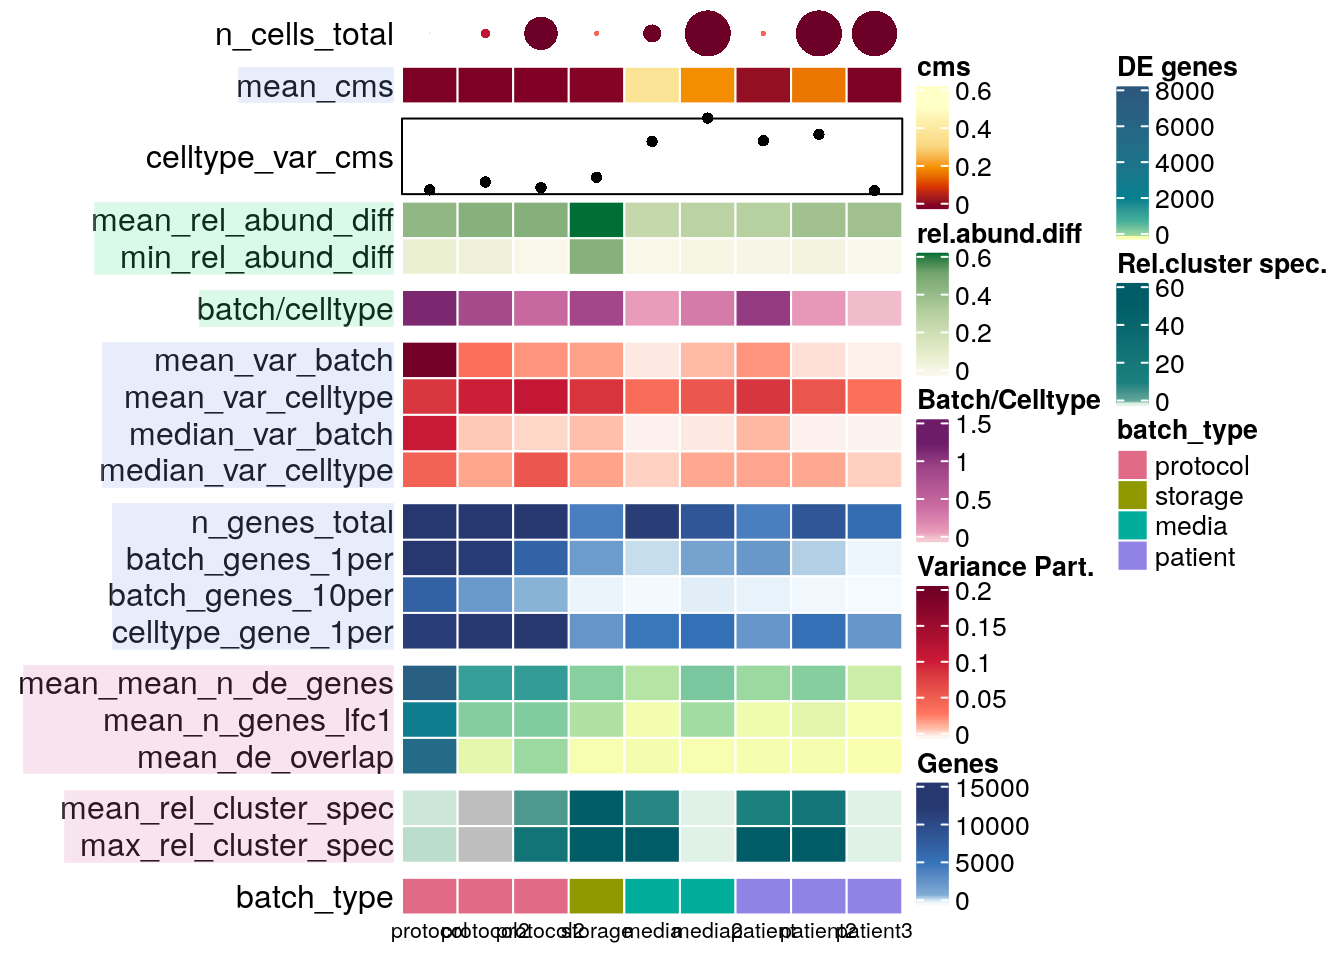
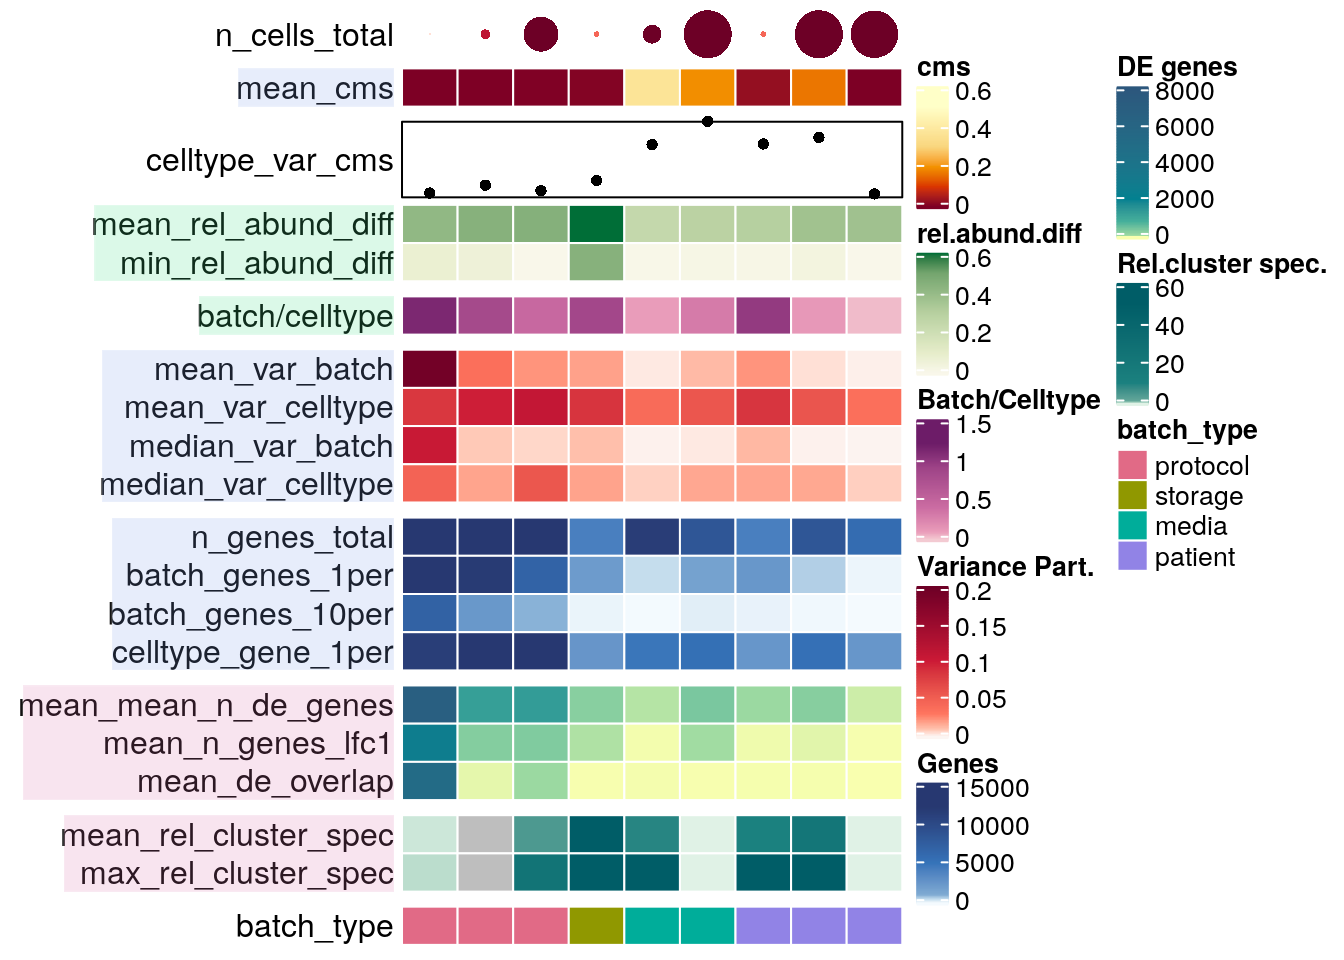
Build site.

Changed region(s): [[0.0, 0.1562, 0.6875, 1.0], [0.1875, 0.0312, 0.6875, 0.1562]]

diff --git a/docs/summarize_batch_characteristics.html b/docs/summarize_batch_characteristics.html
@@ -523,10 +523,10 @@ This reproducible <a href="http://rmarkdown.rstudio.com">R Markdown</a> analysis
 <div class="panel panel-default">
 <div class="panel-heading">
 <p class="panel-title">
-<a data-toggle="collapse" data-parent="#workflowr-checks" href="#strongRepositoryversionstrongahrefhttpsgithubcomalmutluecharacterizebatchestree79b280f7366f93afc58acb01e42b5e45b0d9a5fetargetblank79b280fa"> <span class="glyphicon glyphicon-ok text-success" aria-hidden="true"></span> <strong>Repository version:</strong> <a href="https://github.com/almutlue/characterize_batches/tree/79b280f7366f93afc58acb01e42b5e45b0d9a5fe" target="_blank">79b280f</a> </a>
+<a data-toggle="collapse" data-parent="#workflowr-checks" href="#strongRepositoryversionstrongahrefhttpsgithubcomalmutluecharacterizebatchestree270c72b69b45fdec8aed5f50036913d45c428968targetblank270c72ba"> <span class="glyphicon glyphicon-ok text-success" aria-hidden="true"></span> <strong>Repository version:</strong> <a href="https://github.com/almutlue/characterize_batches/tree/270c72b69b45fdec8aed5f50036913d45c428968" target="_blank">270c72b</a> </a>
 </p>
 </div>
[2 lines of base64/hex data omitted]
 <div class="panel-body">
 <p>
 Great! You are using Git for version control. Tracking code development and connecting the code version to the results is critical for reproducibility. The version displayed above was the version of the Git repository at the time these results were generated. <br><br> Note that you need to be careful to ensure that all relevant files for the analysis have been committed to Git prior to generating the results (you can use <code>wflow_publish</code> or <code>wflow_git_commit</code>). workflowr only checks the R Markdown file, but you know if there are other scripts or data files that it depends on. Below is the status of the Git repository when the results were generated:
@@ -629,6 +629,40 @@ Message
 </tr>
 </thead>
 <tbody>
+<tr>
+<td>
+Rmd
+</td>
+<td>
+<a href="https://github.com/almutlue/characterize_batches/blob/270c72b69b45fdec8aed5f50036913d45c428968/analysis/summarize_batch_characteristics.Rmd" target="_blank">270c72b</a>
+</td>
+<td>
+almutlue
+</td>
+<td>
+2019-06-19
+</td>
+<td>
+wflow_publish(“analysis/summarize_batch_characteristics.Rmd”)
+</td>
+</tr>
+<tr>
+<td>
+html
+</td>
+<td>
+<a href="https://rawcdn.githack.com/almutlue/characterize_batches/e478dc786047707f426c6e20cccd34b80d7ee24f/docs/summarize_batch_characteristics.html" target="_blank">e478dc7</a>
+</td>
+<td>
+almutlue
+</td>
+<td>
+2019-06-19
+</td>
+<td>
+Build site.
+</td>
+</tr>
 <tr>
 <td>
 Rmd
@@ -1048,7 +1082,8 @@ h_general2 &lt;- Heatmap(batch_type_mat,
           column_names_rot = 0,
           column_names_centered = TRUE,
           column_names_gp = gpar(fontsize = 8),
-          row_names_side = &quot;left&quot;, 
+          row_names_side = &quot;left&quot;,
+          show_column_names = FALSE,
           col = col_general2,
           rect_gp = gpar(col= &quot;white&quot;))
 
@@ -1115,6 +1150,17 @@ Date
 </tr>
 </thead>
 <tbody>
+<tr>
+<td>
+<a href="https://github.com/almutlue/characterize_batches/blob/e478dc786047707f426c6e20cccd34b80d7ee24f/docs/figure/summarize_batch_characteristics.Rmd/complex heatmap-1.png" target="_blank">e478dc7</a>
+</td>
+<td>
+almutlue
+</td>
+<td>
+2019-06-19
+</td>
+</tr>
 <tr>
 <td>
 <a href="https://github.com/almutlue/characterize_batches/blob/5ed2a9644ddc97a9fdb6915fa0454dc19a51f405/docs/figure/summarize_batch_characteristics.Rmd/complex heatmap-1.png" target="_blank">5ed2a96</a>
@@ -1319,6 +1365,17 @@ Date
 </tr>
 </thead>
 <tbody>
+<tr>
+<td>
+<a href="https://github.com/almutlue/characterize_batches/blob/e478dc786047707f426c6e20cccd34b80d7ee24f/docs/figure/summarize_batch_characteristics.Rmd/sim para-1.png" target="_blank">e478dc7</a>
+</td>
+<td>
+almutlue
+</td>
+<td>
+2019-06-19
+</td>
+</tr>
 <tr>
 <td>
 <a href="https://github.com/almutlue/characterize_batches/blob/5ed2a9644ddc97a9fdb6915fa0454dc19a51f405/docs/figure/summarize_batch_characteristics.Rmd/sim para-1.png" target="_blank">5ed2a96</a>
